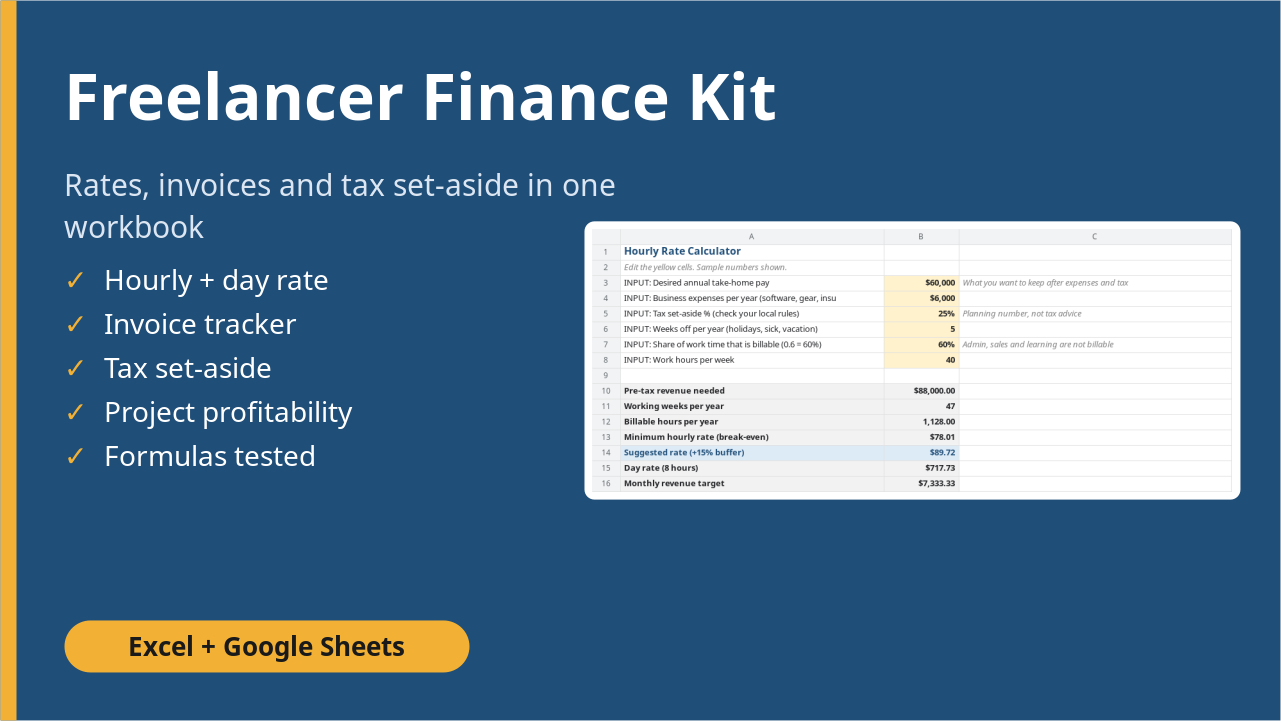
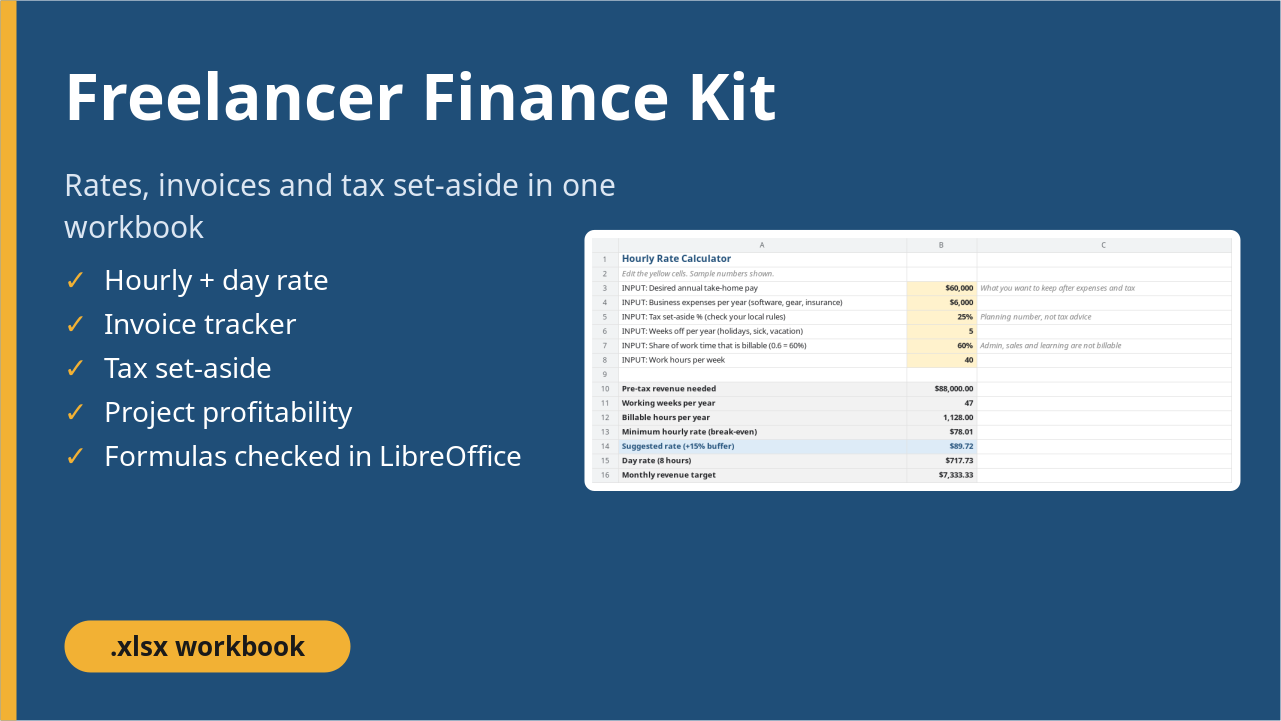
Publish from Niche Template Studio

diff --git a/index.html b/index.html
@@ -3,7 +3,7 @@
 <head>
 <meta charset="utf-8">
 <meta name="viewport" content="width=device-width, initial-scale=1">
-<title>Freelance Income Tracker for Google Sheets: Invoices, Tax Set-Aside, Real Hourly Rate</title>
+<title>Freelance Income Tracker Spreadsheet (.xlsx): Invoices, Tax Set-Aside, Real Hourly Rate</title>
 <meta name="description" content="Freelancer Finance Kit: a spreadsheet to track invoices, set aside quarterly tax and see your effective hourly rate per project. Free hourly rate calculator and sample included.">
 <style>
 body{font-family:system-ui,sans-serif;max-width:760px;margin:0 auto;padding:1rem;line-height:1.6;color:#1c2430}
@@ -14,7 +14,7 @@ footer,.small{color:#566;font-size:.9rem}
 </style>
 </head>
 <body>
-<h1>Freelance income tracker for Google Sheets: know what you actually earn per hour</h1>
+<h1>Freelance income tracker spreadsheet: know what you actually earn per hour</h1>
 <p>Most freelancer trackers log income and stop. The <strong>Freelancer Finance Kit</strong> also tracks your invoices and shows whether each project paid off once you count the hours you really spent.</p>
 
 <p><a class="cta" href="https://xparhyx.gumroad.com/l/ggveuk">Get the kit &ndash; $12</a></p>
@@ -32,14 +32,14 @@ footer,.small{color:#566;font-size:.9rem}
 <div class="box" id="buy">
 <h2>Get it</h2>
 <p><a class="cta" href="https://xparhyx.gumroad.com/l/ggveuk">Buy the Freelancer Finance Kit &ndash; $12</a></p>
-<p class="small">One-time digital download: a formatted .xlsx workbook that opens in Excel and imports into Google Sheets, plus a quick-start guide. Not accounting, tax or legal advice.</p>
+<p class="small">One-time digital download: a formatted .xlsx workbook plus a quick-start guide. Formulas were checked in LibreOffice Calc; we have not yet tested it in Excel or Google Sheets (it uses standard .xlsx formulas). Not accounting, tax or legal advice. Problems? Reply to your Gumroad receipt email.</p>
 <p><img src="img/kit1-invoices.png" alt="Invoices tab with quarterly tax set-aside table (sample data)" style="max-width:100%"><br><img src="img/kit1-profit.png" alt="Profitability tab (sample data)" style="max-width:100%"></p>
 </div>
 
 <h2>Try before you buy</h2>
 <ul>
 <li><a href="hourly-rate-calculator.html">Free effective hourly rate calculator</a> (runs in your browser).</li>
-<li><a href="free/Free-Freelance-Rate-Calculator.xlsx">Free sample: the Rate Calculator tab as an .xlsx</a> (opens in Excel, imports into Google Sheets).</li>
+<li><a href="free/Free-Freelance-Rate-Calculator.xlsx">Free sample: the Rate Calculator tab as an .xlsx</a> (checked in LibreOffice; try it in your own spreadsheet app before buying).</li>
 </ul>
 
 <h2>Who it's for</h2>

diff --git a/hourly-rate-calculator.html b/hourly-rate-calculator.html
@@ -43,7 +43,8 @@ small,.note{color:#566}
 <p class="note">This is an estimate for planning, not tax or financial advice. Tax rules differ by country and situation; check with a qualified accountant. Calculation runs entirely in your browser and nothing is sent or saved.</p>
 
 <h2>How it works</h2>
-<p>Gross income needed = take-home pay &divide; (1 &minus; tax rate) + expenses. Billable hours = weeks &times; hours per week &times; billable share. Required rate = gross income needed &divide; billable hours. Tax is simplified as one flat percentage of that income, so the real figure will differ.</p>
+<p>Gross income needed = (take-home pay + expenses) &divide; (1 &minus; tax rate). Billable hours = weeks &times; hours per week &times; billable share. Required rate = gross income needed &divide; billable hours. Tax is simplified as one flat percentage of that income, so the real figure will differ. This is the cautious version: it sets tax aside on your expenses too. If your expenses are tax-deductible where you live, your real rate can be a little lower.</p>
+<p>Example: 60,000 take-home, 6,000 expenses, 25% tax, 47 working weeks, 40 hours, 60% billable gives (60,000 + 6,000) &divide; 0.75 = 88,000 over 1,128 billable hours, a minimum of $78.01 an hour.</p>
 <p>Most freelancers find the billable share is the surprise: at 60% billable, a 40-hour week only produces 24 paid hours.</p>
 
 <h2>Want to track your real rate?</h2>
@@ -61,7 +62,7 @@ small,.note{color:#566}
     var tax=Math.min(v("tax"),90)/100;
     var hours=v("weeks")*v("hrs")*Math.min(v("bill"),100)/100;
     if(hours<=0){document.getElementById("rate").textContent="–";document.getElementById("detail").textContent="Enter weeks, hours and billable share above zero.";return;}
-    var gross=v("net")/(1-tax)+v("exp");
+    var gross=(v("net")+v("exp"))/(1-tax);
     var rate=gross/hours;
     document.getElementById("rate").textContent=money(rate)+" / hour";
     document.getElementById("detail").textContent="Gross income needed: "+money(gross)+" per year across "+Math.round(hours)+" billable hours. Set aside about "+money(gross*tax)+" per year for tax (estimate).";
